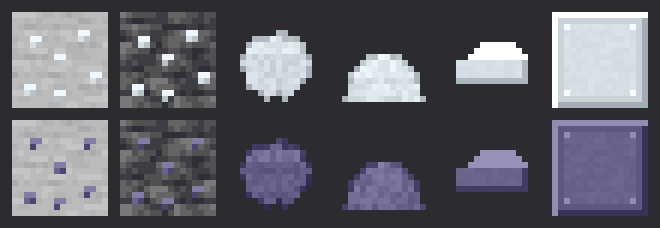
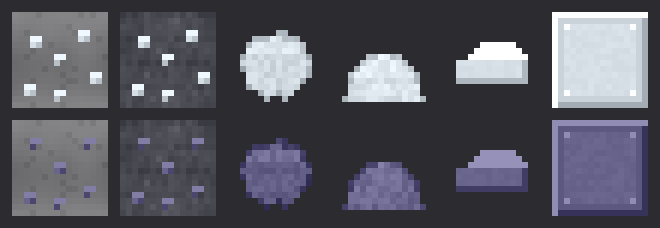
Prepare Voltworks for CurseForge release
- MIT LICENSE file; author set to "Voltworks Team"; updated mod description
- Original mod icon and 400x400 CurseForge logo (tools/GenIcon.java)
- Ore textures now drawn on procedural stone/deepslate, so no Mojang
  textures ship in the jar
- docs/curseforge.md: project settings, upload fields, changelog and
  page description; README publishing and license sections

Changed region(s): [[0.0, 0.0307, 0.3333, 0.4912], [0.0, 0.5219, 0.3333, 0.9518], [0.2727, 0.7368, 0.303, 0.7675]]

diff --git a/tools/GenIcon.java b/tools/GenIcon.java
@@ -1,0 +1,108 @@
+import java.awt.*;
+import java.awt.geom.*;
+import java.awt.image.BufferedImage;
+import java.io.File;
+import javax.imageio.ImageIO;
+
+/**
+ * Draws the Voltworks logo: a yellow lightning bolt over a gear on a blue steel plate.
+ * Usage: java tools/GenIcon.java <project root>
+ * Writes src/main/resources/assets/voltworks/icon.png (128px, mod list) and docs/images/logo.png (400px, CurseForge).
+ */
+public class GenIcon {
+	public static void main(String[] args) throws Exception {
+		File root = new File(args.length > 0 ? args[0] : ".");
+		BufferedImage big = draw(400);
+		write(big, new File(root, "docs/images/logo.png"));
+		write(scale(big, 128), new File(root, "src/main/resources/assets/voltworks/icon.png"));
+		System.out.println("done");
+	}
+
+	static BufferedImage draw(int s) {
+		BufferedImage img = new BufferedImage(s, s, BufferedImage.TYPE_INT_ARGB);
+		Graphics2D g = img.createGraphics();
+		g.setRenderingHint(RenderingHints.KEY_ANTIALIASING, RenderingHints.VALUE_ANTIALIAS_ON);
+		g.setRenderingHint(RenderingHints.KEY_STROKE_CONTROL, RenderingHints.VALUE_STROKE_PURE);
+		double u = s / 100.0; // design on a 100x100 grid
+
+		// Plate: rounded square with a vertical blue-steel gradient and a bevel
+		RoundRectangle2D plate = new RoundRectangle2D.Double(3 * u, 3 * u, 94 * u, 94 * u, 22 * u, 22 * u);
+		g.setPaint(new GradientPaint(0, (float) (3 * u), new Color(78, 96, 122), 0, (float) (97 * u), new Color(34, 42, 56)));
+		g.fill(plate);
+		g.setStroke(new BasicStroke((float) (3 * u)));
+		g.setColor(new Color(20, 24, 32));
+		g.draw(plate);
+		g.setStroke(new BasicStroke((float) (1.2 * u)));
+		g.setColor(new Color(255, 255, 255, 50));
+		g.draw(new RoundRectangle2D.Double(6 * u, 6 * u, 88 * u, 88 * u, 18 * u, 18 * u));
+
+		// Hazard stripe along the bottom
+		Shape oldClip = g.getClip();
+		g.setClip(new RoundRectangle2D.Double(6 * u, 80 * u, 88 * u, 11 * u, 6 * u, 6 * u));
+		g.setColor(new Color(25, 25, 25));
+		g.fill(new Rectangle2D.Double(0, 80 * u, s, 11 * u));
+		g.setColor(new Color(240, 180, 40));
+		for (int i = -2; i < 14; i++) {
+			Path2D stripe = new Path2D.Double();
+			double x = i * 9 * u;
+			stripe.moveTo(x, 91 * u);
+			stripe.lineTo(x + 4.5 * u, 91 * u);
+			stripe.lineTo(x + 15.5 * u, 80 * u);
+			stripe.lineTo(x + 11 * u, 80 * u);
+			stripe.closePath();
+			g.fill(stripe);
+		}
+		g.setClip(oldClip);
+
+		// Gear behind the bolt
+		Area gear = new Area(new Ellipse2D.Double(22 * u, 18 * u, 56 * u, 56 * u));
+		for (int i = 0; i < 10; i++) {
+			double a = Math.toRadians(i * 36);
+			AffineTransform t = AffineTransform.getRotateInstance(a, 50 * u, 46 * u);
+			gear.add(new Area(t.createTransformedShape(new Rectangle2D.Double(45 * u, 12 * u, 10 * u, 10 * u))));
+		}
+		gear.subtract(new Area(new Ellipse2D.Double(36 * u, 32 * u, 28 * u, 28 * u)));
+		g.setColor(new Color(20, 24, 32, 140));
+		g.fill(AffineTransform.getTranslateInstance(1.5 * u, 1.5 * u).createTransformedShape(gear));
+		g.setPaint(new GradientPaint(0, (float) (14 * u), new Color(150, 160, 175), 0, (float) (78 * u), new Color(95, 104, 118)));
+		g.fill(gear);
+		g.setColor(new Color(20, 24, 32));
+		g.setStroke(new BasicStroke((float) (1.6 * u)));
+		g.draw(gear);
+
+		// Lightning bolt
+		Path2D bolt = new Path2D.Double();
+		bolt.moveTo(57 * u, 10 * u);
+		bolt.lineTo(31 * u, 50 * u);
+		bolt.lineTo(48 * u, 50 * u);
+		bolt.lineTo(40 * u, 82 * u);
+		bolt.lineTo(70 * u, 38 * u);
+		bolt.lineTo(52 * u, 38 * u);
+		bolt.closePath();
+		g.setColor(new Color(0, 0, 0, 110));
+		g.fill(AffineTransform.getTranslateInstance(2 * u, 2 * u).createTransformedShape(bolt));
+		g.setPaint(new GradientPaint((float) (40 * u), (float) (10 * u), new Color(255, 240, 120), (float) (55 * u), (float) (80 * u), new Color(250, 170, 20)));
+		g.fill(bolt);
+		g.setStroke(new BasicStroke((float) (2.6 * u), BasicStroke.CAP_ROUND, BasicStroke.JOIN_ROUND));
+		g.setColor(new Color(60, 35, 0));
+		g.draw(bolt);
+
+		g.dispose();
+		return img;
+	}
+
+	static BufferedImage scale(BufferedImage src, int size) {
+		BufferedImage out = new BufferedImage(size, size, BufferedImage.TYPE_INT_ARGB);
+		Graphics2D g = out.createGraphics();
+		g.setRenderingHint(RenderingHints.KEY_INTERPOLATION, RenderingHints.VALUE_INTERPOLATION_BICUBIC);
+		g.setRenderingHint(RenderingHints.KEY_RENDERING, RenderingHints.VALUE_RENDER_QUALITY);
+		g.drawImage(src, 0, 0, size, size, null);
+		g.dispose();
+		return out;
+	}
+
+	static void write(BufferedImage img, File f) throws Exception {
+		f.getParentFile().mkdirs();
+		ImageIO.write(img, "png", f);
+	}
+}

diff --git a/tools/GenAssets.java b/tools/GenAssets.java
@@ -243,7 +243,41 @@ public class GenAssets {
 	static int baseStone(int x, int y, Random r, boolean deep) {
 		BufferedImage base = deep ? deepslateBase : stoneBase;
 		if (base != null) return base.getRGB(x, y);
-		return deep ? shade(rgb(80, 80, 86), r.nextInt(17) - 8) : shade(rgb(125, 125, 125), r.nextInt(21) - 10);
+		return deep ? originalDeepslate(x, y) : originalStone(x, y);
+	}
+
+	/** Smooth tileable value noise (period 16) so the stone wraps seamlessly between blocks. */
+	static double noise(int x, int y, int cell, long seed) {
+		int n = 16 / cell;
+		double fx = (double) x / cell, fy = (double) y / cell;
+		int x0 = (int) Math.floor(fx), y0 = (int) Math.floor(fy);
+		double tx = fx - x0, ty = fy - y0;
+		tx = tx * tx * (3 - 2 * tx);
+		ty = ty * ty * (3 - 2 * ty);
+		double a = hash(Math.floorMod(x0, n), Math.floorMod(y0, n), seed), b = hash(Math.floorMod(x0 + 1, n), Math.floorMod(y0, n), seed);
+		double c = hash(Math.floorMod(x0, n), Math.floorMod(y0 + 1, n), seed), d = hash(Math.floorMod(x0 + 1, n), Math.floorMod(y0 + 1, n), seed);
+		return (a + (b - a) * tx) + ((c + (d - c) * tx) - (a + (b - a) * tx)) * ty;
+	}
+
+	static double hash(int x, int y, long seed) {
+		long h = seed ^ (x * 374761393L) ^ (y * 668265263L);
+		h = (h ^ (h >>> 13)) * 1274126177L;
+		return ((h ^ (h >>> 16)) & 0xFFFF) / 65535.0;
+	}
+
+	/** Original stone: mottled grey from two octaves of noise plus fine grain. */
+	static int originalStone(int x, int y) {
+		double v = 0.6 * noise(x, y, 8, 11) + 0.3 * noise(x, y, 4, 12) + 0.1 * noise(x, y, 2, 13);
+		int d = (int) Math.round((v - 0.5) * 44) + (hash(x, y, 14) > 0.85 ? -10 : 0);
+		return shade(rgb(124, 124, 126), d);
+	}
+
+	/** Original deepslate: darker, bluish, with horizontal strata. */
+	static int originalDeepslate(int x, int y) {
+		double strata = noise(x * 2 % 16, y, 2, 21);
+		double v = 0.5 * noise(x, y, 8, 22) + 0.5 * strata;
+		int d = (int) Math.round((v - 0.5) * 36) + (y % 4 == 0 ? -6 : 0) + (hash(x, y, 23) > 0.9 ? 8 : 0);
+		return shade(rgb(74, 74, 82), d);
 	}
 
 	/** Ore speckles: a few 2-3 pixel clusters with a highlight and a shadow. */

diff --git a/docs/curseforge.md b/docs/curseforge.md
@@ -1,0 +1,102 @@
+# CurseForge release kit
+
+Everything needed to create the Voltworks project and upload the first file. Copy the fields below into the CurseForge author console.
+
+## Project settings
+
+| Field | Value |
+|---|---|
+| Name | Voltworks |
+| Summary (one line) | Industrial tech: power networks, ore crushers, electric furnaces, power tools and a nuclear reactor. |
+| Game / type | Minecraft / Mods |
+| Main category | Technology |
+| Extra categories | Energy, Ore Processing |
+| License | MIT License |
+| Logo | `docs/images/logo.png` (400×400) |
+| Screenshots | `docs/images/test-world.png`, `crusher-gui.png`, `reactor-gui.png`, `tools-preview.png`, `ore-preview.png` |
+| Source link | Your GitHub repo URL, if you publish one (optional) |
+
+## First file upload
+
+| Field | Value |
+|---|---|
+| File | `build/libs/voltworks-0.1.0.jar` (not the `-sources` jar) |
+| Display name | Voltworks 0.1.0 |
+| Release type | Beta |
+| Game version | 26.3 |
+| Mod loader | Fabric |
+| Java version | Java 25 |
+| Environment | Client and Server |
+| Related project | **Fabric API** — Required Dependency |
+| Changelog | See below |
+
+### Changelog for 0.1.0
+
+```
+First public release.
+- Power: Generator, Solar Panel, Thermal Generator, Reactor Chamber; Copper Cable; Battery Box
+- Machines: Crusher, Electric Furnace, Alloy Smelter, Industrial Crusher, Induction Furnace
+- Machine upgrades: Speed, Capacity, Ejector
+- Power tools: Electric Drill, Chainsaw, Advanced Drill (3x3 mode), Charger
+- New ores: Tin, Lead, Uranium
+```
+
+## Project description (paste into the description editor, Markdown mode)
+
+```markdown
+# Voltworks
+
+**Build a power grid, automate your ore processing, and run a nuclear reactor — without blowing up your base. (Probably.)**
+
+Voltworks is an industrial tech mod for Fabric. Generate power, carry it through copper cables, and feed it to machines that double (or triple) your ore output.
+
+## ⚡ Power
+- **Generator** — burns any furnace fuel for 10 J/t.
+- **Solar Panel** — free power in daylight.
+- **Thermal Generator** — sits next to lava source blocks: 5 J/t per source, up to 25 J/t.
+- **Reactor Chamber** — the big one. See below.
+- **Copper Cable** connects everything; **Battery Box** stores 100,000 J. Machines get power first, batteries get the surplus.
+
+## 🏭 Machines
+| Machine | What it does |
+|---|---|
+| Crusher | Ore or raw ore → 2 dust (smelt dust into ingots: double output) |
+| Electric Furnace | Smelts anything, 2× furnace speed |
+| Alloy Smelter | Iron + 2 coal → **Steel**. Also makes netherite. |
+| Industrial Crusher | 3 dust per ore, 4× faster |
+| Induction Furnace | Two independent lanes, each 4× furnace speed |
+
+Every machine has **3 upgrade slots**:
+- **Speed Upgrade** — 30% faster each (uses more power)
+- **Capacity Upgrade** — +4,000 J internal storage each
+- **Ejector Upgrade** — pushes finished items into the next machine or chest. Put a Crusher next to an Electric Furnace and ore turns into ingots by itself.
+
+## ☢ Nuclear reactor
+The Reactor Chamber has a 3×3 grid for **Fuel Rods** and **Heat Vents**.
+- Each rod pulses once, **plus once for every rod beside it** — clusters make far more power… and far more heat.
+- Heat Vents cool more when placed next to rods; water around the reactor helps too.
+- It only runs with a **redstone signal**, and a **comparator** reads its heat — build an automatic shutdown!
+- Let it reach 100% heat and it **melts down**. Spectacularly.
+
+## ⛏ Power tools
+- **Electric Drill** — pickaxe + shovel, faster than diamond.
+- **Chainsaw** — cuts wood and leaves.
+- **Advanced Drill** — diamond tier with a **3×3 mining mode** (sneak + right-click).
+- Tools never break: recharge them in the **Charger**.
+
+## 🪨 New ores
+**Tin** (mid-depth), **Lead** (deep) and **Uranium** (very deep, faintly glowing). All work with the Crusher for double output, and use common `c:` tags for compatibility with other mods.
+
+## Requirements
+- Minecraft 26.3
+- Fabric Loader
+- [Fabric API](https://www.curseforge.com/minecraft/mc-mods/fabric-api)
+
+Modpacks: yes, go ahead! Voltworks is MIT licensed.
+```
+
+## Before you click upload
+
+- [ ] `./gradlew build` and grab the fresh jar from `build/libs/`
+- [ ] Search CurseForge for "Voltworks" to make sure the name is free
+- [ ] Test the jar once in a normal Minecraft install (Fabric Loader + Fabric API) to be sure it loads outside the dev environment

diff --git a/README.md b/README.md
@@ -41,9 +41,18 @@ To play: put `build/libs/voltworks-<version>.jar` and Fabric API in your `mods` 
 Textures, models, recipes, loot tables, tags, worldgen and translations are generated by `tools/GenAssets.java`:
 
 ```bash
-java tools/GenAssets.java src/main/resources <path to the Minecraft client jar>
+java tools/GenAssets.java src/main/resources
+java tools/GenIcon.java .
 ```
 
-Pass the client jar (in `.gradle/loom-cache/...`) to draw ore textures over vanilla stone/deepslate; omit it to use procedural stone instead.
+All art is original: ores sit on procedurally generated stone and deepslate. (You *can* pass the Minecraft client jar as a second argument to draw ores over vanilla stone instead, but released builds don't, so no Mojang textures ship in the jar.) `GenIcon` draws the mod icon and the 400×400 CurseForge logo.
 
 ![Tools](docs/images/tools-preview.png)
+
+## Publishing
+
+See [docs/curseforge.md](docs/curseforge.md) for the CurseForge project settings, upload fields, changelog and page description.
+
+## License
+
+MIT — see [LICENSE](LICENSE).
